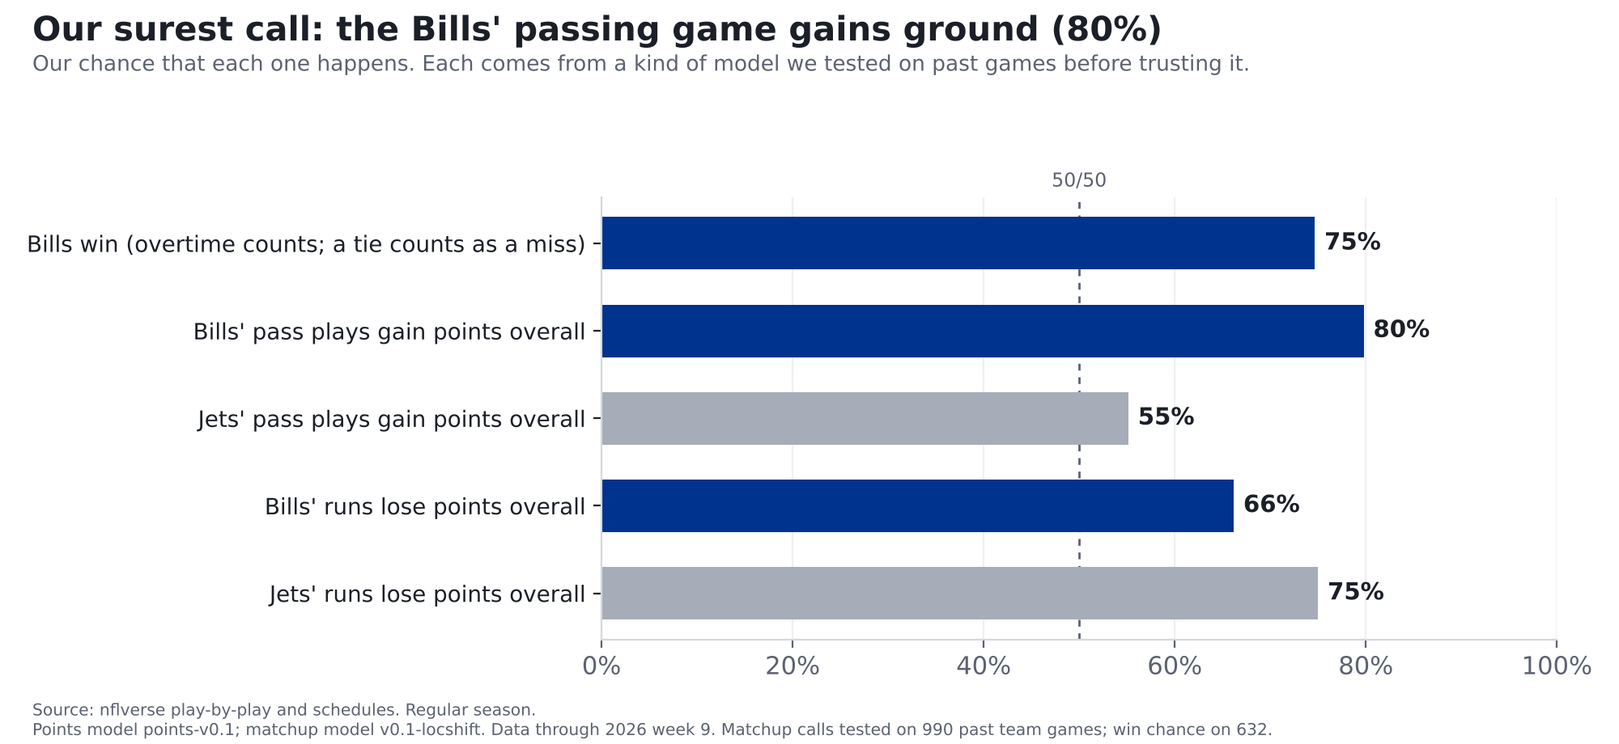
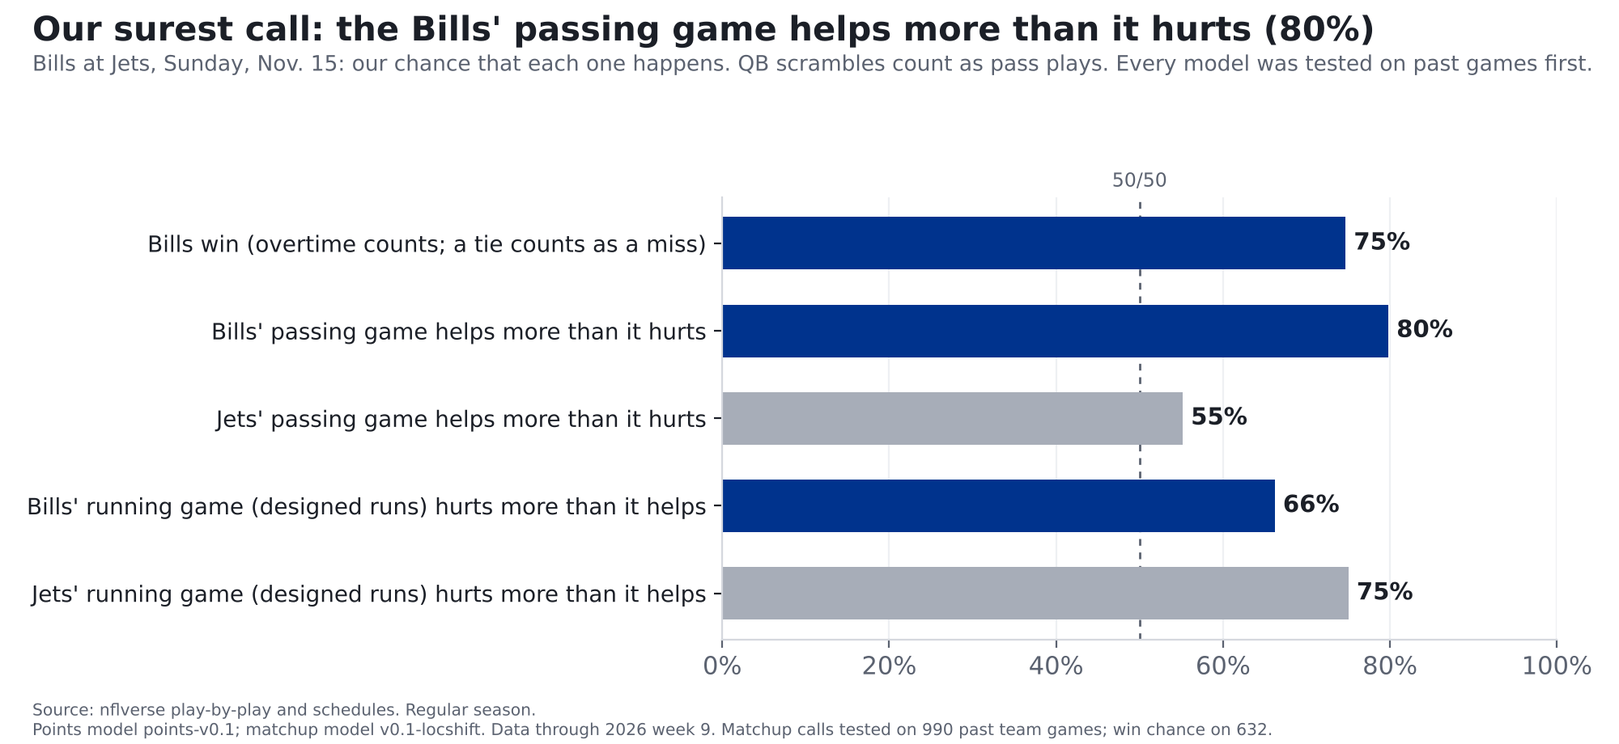
Bills at Jets: plain-English call labels + clarification (#34)
* Plain-English call labels: reword Bills-Jets calls (dated clarification), Editor checks every line stands alone, house rule for call wording

Claude-Session: https://claude.ai/code/session_01EpbAX7fMNT8LnsxAN6UoCp

* Plain labels round 2: hero, card chart, clarification quotes the Ledger, designed runs

Claude-Session: https://claude.ai/code/session_01EpbAX7fMNT8LnsxAN6UoCp

* Plain labels round 3: designed runs on every run label, scrambles note, hero title scoped to pass calls

Claude-Session: https://claude.ai/code/session_01EpbAX7fMNT8LnsxAN6UoCp

* Review records: plain call labels pass Quant, Editor and final check

Claude-Session: https://claude.ai/code/session_01EpbAX7fMNT8LnsxAN6UoCp

---------

diff --git a/src/reports/wk10_prediction.py b/src/reports/wk10_prediction.py
@@ -151,10 +151,10 @@ def main():
     wt, mae = P["wt"], P["mae"]
     calls = [  # (plain-English call, our chance, which model, test key)
         ("Bills win (overtime counts; a tie counts as a miss)", P["p_buf"], "Points model, win chance", "win"),
-        ("Bills' pass plays gain points overall", C["buf_db"]["p"], "Matchup model", "dropback_epa"),
-        ("Jets' pass plays gain points overall", C["opp_db"]["p"], "Matchup model", "dropback_epa"),
-        ("Bills' runs lose points overall", 1 - C["buf_ru"]["p"], "Matchup model", "rush_epa"),
-        ("Jets' runs lose points overall", 1 - C["opp_ru"]["p"], "Matchup model", "rush_epa"),
+        ("Bills' passing game helps more than it hurts", C["buf_db"]["p"], "Matchup model", "dropback_epa"),
+        ("Jets' passing game helps more than it hurts", C["opp_db"]["p"], "Matchup model", "dropback_epa"),
+        ("Bills' running game (designed runs) hurts more than it helps", 1 - C["buf_ru"]["p"], "Matchup model", "rush_epa"),
+        ("Jets' running game (designed runs) hurts more than it helps", 1 - C["opp_ru"]["p"], "Matchup model", "rush_epa"),
     ]
     db, db_cal = T["dropback_epa"]; ru, ru_cal = T["rush_epa"]
     db_hi = db_cal.iloc[-1]                     # the model's most confident pass calls (70%+)
@@ -198,8 +198,8 @@ def main():
     ax.set_yticks(ys, [c[0] for c in calls], fontsize=10)
     ax.set_xlim(0, 1); ax.xaxis.set_major_formatter(matplotlib.ticker.PercentFormatter(1, decimals=0))
     ax.grid(axis="x", color="#EEF0F3"); ax.set_axisbelow(True)
-    finish(fig, f"Our surest call: the Bills' passing game gains ground ({C['buf_db']['p']:.0%})",
-           "Our chance that each one happens. Each comes from a kind of model we tested on past games before trusting it.",
+    finish(fig, f"Our surest call: the Bills' passing game helps more than it hurts ({C['buf_db']['p']:.0%})",
+           "Bills at Jets, Sunday, Nov. 15: our chance that each one happens. QB scrambles count as pass plays. Every model was tested on past games first.",
            f"Points model {pm.VERSION}; matchup model {V01}. Data through 2026 week {THRU}. Matchup calls tested on {db['n']} past team games; win chance on {wt['n']}.")
     fig.savefig(OUT / "wk10-calls.png"); plt.close(fig)
 
@@ -231,14 +231,18 @@ def main():
 
     table = "\n".join(f"| {lab} | **{pr:.0%}** | {m} |" for lab, pr, m, _ in calls)
     ladder_rows = "\n".join(f"| {t} or more | **{lad[t][0]:.0%}** | {lad[t][1]:.0%} |" for t in LADDER)
-    md = f"""# Bills at Jets: our prediction. Buffalo's passing game gets one of the NFL's leakiest pass defenses
+    md = f"""# Bills at Jets: our prediction. Buffalo's passing game faces one of the NFL's leakiest pass defenses
 
 **Finding: We project the Bills for {pb:.1f} points and the Jets for {pj:.1f}, which gives Buffalo a {P['p_buf']:.0%} chance to win. The biggest mismatch on
 the field: the Bills' passing game, {ordn_(R['buf_off_rk'])}-best in the NFL, against a Jets pass defense that's {ordn_(R['opp_def_most'])}-worst. Our matchup model gives an
-{C['buf_db']['p']:.0%} chance the Bills' pass plays gain ground Sunday, our most confident pass call yet, and the model's confident calls have held up.**
+{C['buf_db']['p']:.0%} chance the Bills' passing game helps more than it hurts on Sunday, our most confident pass call yet, and the model's confident calls have held up.**
 
 *Bills at Jets, Sunday, Nov. 15, 1 p.m. ET, MetLife Stadium. Numbers are 2026 through week {THRU}. [Last week's prediction](bills-vikings-prediction.html)
 and [how it went](bills-vikings-postgame.html): {w9_hits} of 7 calls hit.*
+
+*Clarification, Nov. 14: the old wording of our four pass and run calls read like scoreboard points, which isn't what they meant. We reworded those
+calls and the lead in plain English (for example, "the Bills' passing game helps more than it hurts"). No numbers changed. The Ledger entries, logged
+Nov. 13 before kickoff, keep the wording they were logged with (for example, "Bills' pass plays add points overall"), because Ledger entries are never edited.*
 
 ![Chance each team reaches each scoreline](wk10-ladder.png)
 
@@ -255,11 +259,11 @@ scrambles count). The Jets' pass defense has given up {R['opp_def']:.2f} a play,
 Our matchup model counts every game equally instead of every play, so the numbers shift a little. In a typical game the Bills' passing gains about {C['buf_db']['off_mean']:.2f} a play, the Jets' pass defense
 allows about {C['buf_db']['def_mean']:.2f}, and an average game is {C['buf_db']['league']:.2f}. Start from average, add half of how far above average the Bills are and half
 of how far the Jets' defense is, and you get about **{C['buf_db']['expected']:.2f} points a play** for Buffalo on Sunday. Games swing a lot, so that's not a
-promise; the model says there's an **{C['buf_db']['p']:.0%}** chance that, all told, the Bills' passing plays leave them better off than they started.
+promise; the model says there's an **{C['buf_db']['p']:.0%}** chance that, all told, the Bills' passing game helps more than it hurts.
 
 **Is {C['buf_db']['p']:.0%} too bold?** It's the most confident pass call we've made, so we checked the model's record at that level. We tested it on {db['n']}
 past team games from 2023-2025 that it had never seen. In the {int(db_hi.n)} where it gave a passing game 70% or more, it said {db_hi.said:.0%} on average, and the
-passing game came out ahead {db_hi.happened:.0%} of the time.
+passing game helped more than it hurt {db_hi.happened:.0%} of the time.
 
 The rest of the game is closer to even. The Jets score {P['raw']['opp_off']:.2f} points per drive ({ordn_(P['rk']['opp_off_rank'])} of {P['rk']['n']}); the Bills' defense allows
 {P['raw']['buf_def']:.2f} ({ordn_(P['rk']['buf_def_rank'])}).
@@ -290,7 +294,7 @@ The Jets go through the same steps from the other direction. After mixing in las
 defense at {P['def_b']:.2f}, plus the home bump.
 That's **{pj:.1f}**.
 
-## How a 30-point projection becomes {P['p_buf']:.0%}
+## How a 30-point projection becomes a {P['p_buf']:.0%} win chance
 
 Nobody scores exactly what we project. We looked at {len(res):,} past team scores from 2019-2023 and asked how far off we were. Half the time, a team landed
 within about {miss50:.0f} points of our number; eight times in ten, within about {miss80:.0f}. (On games the model had never seen, our average miss was {mae['model']:.1f} points.)
@@ -307,8 +311,9 @@ to Sunday's projections, and checked who came out ahead: Buffalo, {P['p_buf']:.0
 
 ![The calls](wk10-calls.png)
 
-A team's runs "lose points" if, all told, its running plays left it worse off
-than before. That's normal: in {ru['n']} past team games, runs lost points overall {1 - ru['rate']:.0%} of the time.
+What these mean: take the points every pass play was worth in the game (sacks and quarterback scrambles count as pass plays), or every designed run,
+and add them up, good plays and bad. If the total is above zero, that part of the offense helped more than it hurt. Running games usually hurt more than
+they help: in {1 - ru['rate']:.0%} of {ru['n']} past team games, a team's designed runs added up to less than zero.
 
 **Why no 20-point calls this week.** Last week we said our chances of a team reaching 20 points ran a few points low, and that we'd fix that before using
 those 20-point chances again. We haven't fixed it yet, so they're still in the ladder above but aren't logged. The whole middle of the ladder has the same issue: on games the model never saw, when it gave a
@@ -357,9 +362,9 @@ It beat the guess on pass calls and edged it on run calls.
         "note": (f"Bills win {P['p_buf']:.0%} of the time. The key matchup: Buffalo's passing game ({ordn_(R['buf_off_rk'])} in the NFL) against a Jets pass "
                  f"defense that's {ordn_(R['opp_def_most'])}-worst."),
         "explainer": {
-            "kicker": "How we checked it", "title": "Its confident calls have held up.",
-            "text": (f"When our matchup model gave a passing game 70% or more on {int(db_hi.n)} past games it hadn't seen, "
-                     "it said this, and this is how often it happened:"),
+            "kicker": "How we checked it", "title": "Our most confident pass calls have held up.",
+            "text": (f"In {int(db_hi.n)} past games the model hadn't seen, it gave a team's passing game a 70% or better chance to help more "
+                     "than it hurt. Here's the chance it gave, on average, and how often it happened:"),
             "fmt": "pct", "bars": [["What it said", round(float(db_hi.said), 3)], ["What happened", round(float(db_hi.happened), 3)]]},
     }, indent=1))
     print(md)

diff --git a/reports/reviews/2026-wk10-bills-at-jets-final.md b/reports/reviews/2026-wk10-bills-at-jets-final.md
@@ -1,45 +1,35 @@
 # Final check (stage 4): reports/2026-wk10-bills-at-jets.md
+sha256 a909c93f1252bba10c352644d569b545c9daf328f872da53d138133304cb70a4 (matches a909c93f1252).
 
-Text checked: sha256 a9078ec040c014ccbf25bc868fafb9137a3414b8b8d29ca692681c82f2bdcbf5 (matches current file).
-I did not run the generator or the logger. My own scratch code is /tmp/fc10/check.py. It opens data/buffalo.db read-only and uses only points_model, model_v01 and model_v01_backtest.
+Verdict: PASS (publish).
 
-**Verdict: PASS. Publish as is.** The edits since the round-2 Quant pass are: the opening rewording, "Ty Johnson", the game-by-game sentence, the ladder note, the cut duplicate disclaimer, the Ledger line and the removed tie footnote. None of them broke a number or a claim.
+## 1. Every line stands alone
+- Calls table rows, calls chart labels and title ("Our surest call: the Bills' passing game helps more than it hurts (80%)"),
+  hero note and explainer title, ladder and win-test chart titles all read as plain sentences. Run calls carry "(designed runs)";
+  calls chart subtitle and the "What these mean" paragraph say scrambles count as pass plays. No "gain/lose points" wording
+  outside the clarification note's quote of the Ledger.
+- Jargon (EPA, dropback, Brier, calibration, residual) appears only in "For the stat-heads".
+- Non-blocking: ladder chart title "72% to 41% to reach 24" is a bit terse; hero explainer says "134 past games" where they are team games.
 
-## Re-derived numbers
-- **Projections:** coef 7.068 + 0.6785 x raw + 1.453 x home. Bills raw 33.59 (3.074 per drive x 10.92 drives), which gives 29.86 or **29.9**. Jets get **22.08 or 22.1**. Blends: Bills offense 2.729, Jets defense 2.400, Jets offense 1.805, Bills defense 2.078, league 2.055.
-- **Win chance:** 1,247 pairs, Buffalo 0.7466, so **75%**. The ladder reproduces in all 16 cells: 99/90, 95/80, 92/69, 85/58, 72/41, 61/30, 48/20, 29/9. 18-42 is the 10th-90th range. 2,494 training misses: median miss 6.3, 80th percentile 12.1. Test misses averaged 7.47 over 1,264 games.
-- **Raw per drive, through week 9:** Bills offense 2.889 (1st), Jets defense 2.368 (6th-most), Jets offense 1.916 (19th), Bills defense 2.101 (17th-most, so 16th-best). The story's "16th" matches the week 9 postgame's "16 of 32".
-- **Pass, two-point tries excluded:** Bills 0.2633 over 273 (4th). Jets defense 0.1608 over 312 (7th-most of 32). League 0.0466. With two-point tries included, the Bills would be 0.253 over 277, so the exclusion is applied.
-- **Game-by-game:** offense 0.2705, Jets defense 0.1950, league 0.0486. 0.0486 + 0.5 x (0.2219 + 0.1464) = 0.2327, so **0.23**. P = 0.798, so **80%**.
-- **Example plays (2026_09_BUF_MIN):** play 2588, Q3 3rd-and-8, passer 00-0034857 (Josh Allen) to 00-0035537 (Ty Johnson in raw_players), 36 yards, EPA +3.775. Play 132, Q1 3rd-and-14, Allen sacked for -7, EPA -1.755.
-- **The 80% check:** dropback backtest n=990. The 0.7-1.0 bucket has n=134, said 0.754, happened 0.776, so 75 and 78. Brier 0.2296 vs 0.2452 (pass), 0.2263 vs 0.2312 (run). Runs lost points in 63.9% of games, so 64%. The stat-heads calibration buckets all reproduce.
-- **Other calls:** Jets pass 0.5515, so 55%. Bills runs lose 1 - 0.338 = 66%. Jets runs lose 1 - 0.25 = 75%. Expected values 0.028, -0.067 and -0.113 match the Ledger notes.
-- **Win test:** n=632. The better-chance team was right 63.3% with ties as misses (2 ties). Home team won 51.9%. The 70%+ bucket: n=102, said 75.0%, won 74.0% with ties counted as half. Brier 0.2248 vs 0.2492 / 0.2490.
-- **Ladder caveat:** pooled 0.4-0.6, n=1,744, said 0.499, happened 0.548, so "50% / 55%".
-- **"Most confident pass call":** earlier pass calls were 0.57 (P0005) and 0.65 (P0006). P0008 at 0.81 is a run call, so the qualifier is right.
-- **5 of 7:** P0002-P0008 graded 1,1,0,1,0,1,1.
-- **20-point note:** the week 9 preview said the 20-point chances were "probably a few points low ... will fix this before using these lines again". This week has no 20+ calls on the Ledger and says the fix isn't done. Consistent.
+## 2. Betting language
+grep for picks/odds/lock/lean/favorite/value/edge/fade/lines/spreads/bet/units/cover: one hit only, "No betting lines are used
+anywhere in these models" (a disclaimer in stat-heads). Clean.
 
-## The Ledger
-- P0012-P0016 hold 0.75 / 0.80 / 0.55 / 0.66 / 0.75, which match the table, the chart and the model output.
-- Version is points-win-v0.1 for P0012 and v0.1-locshift for the other four. Game is 2026_10_BUF_NYJ, resolving 2026-11-15T18:00Z (1 p.m. EST).
-- created_at_utc is 2026-11-14T00:54:53Z, which is 7:54 p.m. EST on Nov 13, about 41 hours before kickoff. The story's Ledger line is correct, including "All 5 calls".
-- **Wording:** the story paraphrases the Ledger claim text, the same way week 9 did. For P0012 the story says "overtime counts; a tie counts as a miss" and the Ledger says "any result; a tie counts as a miss". These grade identically. Not a blocker, and the Ledger can't be edited anyway.
+## 3. Numbers vs Ledger and data
+- Ledger P0012-P0016 probabilities 0.75 / 0.80 / 0.55 / 0.66 / 0.75 match table, chart and text.
+- Generator functions: win 0.7466; Bills dropback P(over 0)=0.798 (exp +0.233); Jets dropback 0.551 (exp +0.028);
+  Bills rush P(over)=0.338 -> under 0.66 (exp -0.067); Jets rush P(over)=0.25 -> under 0.75 (exp -0.113). Projections 29.86 / 22.08.
+- Independent SQL on raw_pbp (2026 wk1-9 REG, qb_dropback, no 2pt): Bills offense 273 plays, +0.263/play; Jets defense 312 plays,
+  +0.161 (rank 26 of 32 = 7th-most). Matches story. Points per drive 2.89 (1st), Jets D 2.37 (6th-most), Jets O 1.92 (19th), Bills D 2.10 (16th) match.
+- Example plays: Ty Johnson 36-yd on 3rd-and-8 = 3.77 ("about 3.8"); 7-yd sack on 3rd-and-14 = -1.76 ("about 1.8"). Match.
+- Ladder chart values equal table; ladder footer 1,264 team-games = 2 x 632 games. Win-test chart (102 games, 75%/74%) matches text.
+- Non-blocking, pre-existing: the logged win call counts a tie as a miss while the 75% treats a tie as half; tie probability is tiny, disclosed.
 
-## Ties
-The 63% counts ties as misses. Counting them as half gives 63.4%, and the home-team baseline moves from 51.9% to 52.1%. Both still round to 63% and 52%, so the sentence is true under either rule. The 74% sentence and the win chart footer both state the half-win rule. Dropping the footnote loses nothing a reader needs.
+## 4. Clarification note
+Says no numbers changed (consistent: all probabilities equal Ledger rows logged before the reword). Quoted logged wording
+"Bills' pass plays add points overall" is exact text of P0013's claim_text (parenthetical omitted, introduced as "for example").
+"Four pass and run calls" is correct (P0013-P0016). Dated Nov. 14.
 
-## Hero, dek, charts
-- **Hero:** 30 / 22, 75%, 4th, 7th-worst, 134 games, 0.754 / 0.776. All correct.
-- **Dek:** 29.9 / 22.1 / 75% and "one of the NFL's leakiest pass defenses" (7th-most). Correct.
-- **Ladder PNG:** all 16 labels match and the footer reads 1,264 test games.
-- **Calls PNG:** labels and values match and the footer is correct.
-- **Win-test PNG:** buckets 315 + 215 + 102 = 632, and 75/74 matches the text.
-
-## Brand
-- Scanning the body above "For the stat-heads" found no betting words: odds, spread, line, pick, lock, favorite, bet, wager.
-- No jargon in the body (no EPA, dropback or correlation).
-- Every number traces to the model code I re-ran.
-
-## Optional (non-blocking)
-- Lines 14-15 have a cosmetic markdown line wrap. It renders as one paragraph.
+## 5. Kickoff / timing
+raw_schedules: 2026_10_BUF_NYJ, Sunday 2026-11-15 13:00 ET, NYJ home. Ledger created_at_utc 2026-11-14T00:54:53Z = Nov 13 7:54 p.m. ET,
+before kickoff; story's "Nov. 13 at 7:54 p.m. ET" matches. resolves_at 18:00Z = 1 p.m. ET.

diff --git a/reports/reviews/2026-wk10-bills-at-jets-quant.md b/reports/reviews/2026-wk10-bills-at-jets-quant.md
@@ -1,36 +1,11 @@
-# Quant re-check (stage 2, round 2): reports/2026-wk10-bills-at-jets.md
+# Quant re-review 3: 2026-wk10-bills-at-jets.md (sha256 a909c93f1252...)
 
-Text checked: sha256 ff02a816ce8749d0bd23a266574b4cde41b0d56714a009b3e2f22bfd5d05d668. I didn't run the generator or the logger. The Ledger still has 11 predictions; nothing for week 10 is logged.
+Verdict: PASS. Publish.
 
-**Verdict: PASS.** Every number in the new text reproduces from my own scratch code. There's one small wording fix to make before the final check.
-
-## My four fixes from round 1
-1. **Two-point tries:** `pass_ranks` now has `COALESCE(two_point_attempt,0)=0`. The body says 0.26 over 273 (4th) and 0.16 over 312 (7th-most of 32), league 0.05. Stat-heads says +0.263 and +0.047. These match my numbers from raw_pbp (+0.2633/273, +0.1608/312, +0.0466). Fixed.
-2. **The 0.23 paragraph:** it now uses 0.27, 0.19 and 0.05. 0.049 + 0.5 x (0.221 + 0.146) = 0.233, so 0.23. These are the model's game-averaged values, which I recomputed from clean_team_week (+0.2705, +0.1950, +0.0486). Fixed.
-3. **"lines":** the word is gone from the body. Stat-heads now says "8 scorelines". The only "lines" left is "No betting lines are used", which is a disclaimer and fine. Fixed.
-4. **Calls chart:** I looked at the new wk10-calls.png. The footer is "Matchup calls tested on 990 past team games; win chance on 632". Both are correct, and it no longer says the calls are logged. Fixed.
-
-## The Editor's changes, checked
-- **The two example plays:** I checked them in raw_pbp, game 2026_09_BUF_MIN, Bills on offense.
-  - The completion is play 2588, Q3 3rd-and-8, 36 yards. Passer gsis 00-0034857 is Josh Allen; receiver 00-0035537 is Ty Johnson ("T. Johnson" is fine). EPA +3.775, so about 3.8.
-  - The sack is play 132, Q1 3rd-and-14, -7 yards, Allen sacked. EPA -1.755, so about 1.8.
-  - Neither play is a penalty or a two-point try. The asserts in example_plays() pin each to a single row.
-- **The win-test sentence:** 70%+ bucket said 75.0%, won 74.0%, 102 games, ties counted as half. The win chart shows the same. "As it gives Buffalo Sunday" is right: Buffalo is at 74.7%, which is in the 70%+ bucket.
-- **"pulls extreme projections like this 34":** the raw projection is 33.6, which rounds to 34. That matches "about 11 drives (10.92) ... about 34".
-- **The Jets' blend:** their offense rates 1.805, so 1.81, and the Bills' defense 2.078, so 2.08. Then the home bump of 1.45 gives 22.08, so 22.1. Correct.
-- **"Both sides tilt toward Buffalo":** Bills offense 2.73 is above the league's 2.05, and the Jets' defense 2.40 allows more than average. Points per drive 3.074, so 3.07. Correct.
-- **The headline**, "Buffalo's passing game gets one of the NFL's leakiest pass defenses": the Jets are 7th-most allowed per pass play. This also fixes the "best offense" vs. "4th-best passing" tension.
-- **Unchanged and still right:** the ladder (all 16 cells), 29.9 / 22.1 / 75%, the 80/55/66/75 calls, 134 games said 75 / happened 78, the 990-game backtest, 64% of runs losing points, the 632-game test (63% / 52%), the 1,744-case caveat (50 → 55), 2,494 misses, 1,247 pairs, the 18-42 range, "within 6 / 12", the average miss of 7.5, the ranks (19th, 16th, 1st, 6th-most), and "5 of 7".
-- **Logger:** log_wk10.py is unchanged and still pulls `points_block()` and `matchup_calls()`, which this round didn't touch. It would log 0.75 / 0.80 / 0.55 / 0.66 / 0.75, matching the story.
-- **Hero JSON and dek:** unchanged and consistent (30, 22, 75%, 4th, 7th-worst, 134, 0.754/0.776).
-- **Brand:** no betting language. The body uses plain decimals with no "EPA", and the jargon stays in the stat-heads section.
-
-## Fix before the final check (wording only)
-- **"they're still shown in the ladder, flagged, but not logged until fixed. The ladder has the same issue: ..."**
-  - Nothing in the ladder table or chart flags the 20+ row; the only flag is this paragraph.
-  - "The ladder has the same issue" right after "still shown in the ladder" also reads as a repeat.
-  - Suggested: "We haven't fixed it yet, so we're not logging them; they're still in the ladder above, with this caveat: on games the model never saw, when it gave a team a 40-60% chance ..."
-  - Alternatively, add a marker to the 20+ row.
-
-## Note for the final check
-After the logger runs, `ledger_status()` swaps in the "Logged on ... before kickoff" sentence. That changes the text's sha256, so the final check has to be on the post-logging text. Also confirm that the logged rows are 0.75 / 0.80 / 0.55 / 0.66 / 0.75 and that created_at_utc is before 2026-11-15 18:00Z.
+## Checked
+- Diff from HEAD~1 (.md, hero.json, wk10_prediction.py, PNG): wording only. No number changed. Table and chart values are still 75/80/55/66/75%. Hero bars are still 0.754 and 0.776. Footer still says 990 and 632.
+- The run calls now read "Bills'/Jets' running game (designed runs) hurts more than it helps" in the table and the chart. That matches the model (designed runs only, src/clean/build.py:35) and Ledger P0015/P0016 ("designed runs lose points overall (rush EPA below zero)", 0.66 and 0.75).
+- The chart subtitle says "QB scrambles count as pass plays." That's correct: all 489 scrambles on real plays in 2026 are counted as dropbacks. The explainer paragraph right under the table says the same.
+- The hero title is now "Our most confident pass calls have held up." It matches its evidence: pass calls at 70%+, 134 games, said 75.4%, happened 77.6%.
+- wk10-calls.png: labels and subtitle are fully visible and not clipped. The 50/50 line is still there. Footer has the source and sample sizes. No jargon and no betting language.
+- Earlier rounds' checks still hold: clarification note, explainer, 64% of 990, 78% of 134.

diff --git a/reports/2026-wk10-bills-at-jets.md b/reports/2026-wk10-bills-at-jets.md
@@ -1,11 +1,15 @@
-# Bills at Jets: our prediction. Buffalo's passing game gets one of the NFL's leakiest pass defenses
+# Bills at Jets: our prediction. Buffalo's passing game faces one of the NFL's leakiest pass defenses
 
 **Finding: We project the Bills for 29.9 points and the Jets for 22.1, which gives Buffalo a 75% chance to win. The biggest mismatch on
 the field: the Bills' passing game, 4th-best in the NFL, against a Jets pass defense that's 7th-worst. Our matchup model gives an
-80% chance the Bills' pass plays gain ground Sunday, our most confident pass call yet, and the model's confident calls have held up.**
+80% chance the Bills' passing game helps more than it hurts on Sunday, our most confident pass call yet, and the model's confident calls have held up.**
 
 *Bills at Jets, Sunday, Nov. 15, 1 p.m. ET, MetLife Stadium. Numbers are 2026 through week 9. [Last week's prediction](bills-vikings-prediction.html)
 and [how it went](bills-vikings-postgame.html): 5 of 7 calls hit.*
+
+*Clarification, Nov. 14: the old wording of our four pass and run calls read like scoreboard points, which isn't what they meant. We reworded those
+calls and the lead in plain English (for example, "the Bills' passing game helps more than it hurts"). No numbers changed. The Ledger entries, logged
+Nov. 13 before kickoff, keep the wording they were logged with (for example, "Bills' pass plays add points overall"), because Ledger entries are never edited.*
 
 ![Chance each team reaches each scoreline](wk10-ladder.png)
 
@@ -22,11 +26,11 @@ scrambles count). The Jets' pass defense has given up 0.16 a play, 7th-most of 3
 Our matchup model counts every game equally instead of every play, so the numbers shift a little. In a typical game the Bills' passing gains about 0.27 a play, the Jets' pass defense
 allows about 0.19, and an average game is 0.05. Start from average, add half of how far above average the Bills are and half
 of how far the Jets' defense is, and you get about **0.23 points a play** for Buffalo on Sunday. Games swing a lot, so that's not a
-promise; the model says there's an **80%** chance that, all told, the Bills' passing plays leave them better off than they started.
+promise; the model says there's an **80%** chance that, all told, the Bills' passing game helps more than it hurts.
 
 **Is 80% too bold?** It's the most confident pass call we've made, so we checked the model's record at that level. We tested it on 990
 past team games from 2023-2025 that it had never seen. In the 134 where it gave a passing game 70% or more, it said 75% on average, and the
-passing game came out ahead 78% of the time.
+passing game helped more than it hurt 78% of the time.
 
 The rest of the game is closer to even. The Jets score 1.92 points per drive (19th of 32); the Bills' defense allows
 2.10 (16th).
@@ -64,7 +68,7 @@ The Jets go through the same steps from the other direction. After mixing in las
 defense at 2.08, plus the home bump.
 That's **22.1**.
 
-## How a 30-point projection becomes 75%
+## How a 30-point projection becomes a 75% win chance
 
 Nobody scores exactly what we project. We looked at 2,494 past team scores from 2019-2023 and asked how far off we were. Half the time, a team landed
 within about 6 points of our number; eight times in ten, within about 12. (On games the model had never seen, our average miss was 7.5 points.)
@@ -78,15 +82,16 @@ to Sunday's projections, and checked who came out ahead: Buffalo, 75% of the tim
 | Call | Our chance | Where it comes from |
 |---|---|---|
 | Bills win (overtime counts; a tie counts as a miss) | **75%** | Points model, win chance |
-| Bills' pass plays gain points overall | **80%** | Matchup model |
-| Jets' pass plays gain points overall | **55%** | Matchup model |
-| Bills' runs lose points overall | **66%** | Matchup model |
-| Jets' runs lose points overall | **75%** | Matchup model |
+| Bills' passing game helps more than it hurts | **80%** | Matchup model |
+| Jets' passing game helps more than it hurts | **55%** | Matchup model |
+| Bills' running game (designed runs) hurts more than it helps | **66%** | Matchup model |
+| Jets' running game (designed runs) hurts more than it helps | **75%** | Matchup model |
 
 ![The calls](wk10-calls.png)
 
-A team's runs "lose points" if, all told, its running plays left it worse off
-than before. That's normal: in 990 past team games, runs lost points overall 64% of the time.
+What these mean: take the points every pass play was worth in the game (sacks and quarterback scrambles count as pass plays), or every designed run,
+and add them up, good plays and bad. If the total is above zero, that part of the offense helped more than it hurt. Running games usually hurt more than
+they help: in 64% of 990 past team games, a team's designed runs added up to less than zero.
 
 **Why no 20-point calls this week.** Last week we said our chances of a team reaching 20 points ran a few points low, and that we'd fix that before using
 those 20-point chances again. We haven't fixed it yet, so they're still in the ladder above but aren't logged. The whole middle of the ladder has the same issue: on games the model never saw, when it gave a

diff --git a/reports/reviews/2026-wk10-bills-at-jets-editor.md b/reports/reviews/2026-wk10-bills-at-jets-editor.md
@@ -1,19 +1,19 @@
-# Editor re-review, round 3: Bills at Jets, week 10 (text sha256 a9078ec040c0...)
+# Editor re-review, round 3: Bills at Jets, week 10 (text sha256 a909c93f1252)
 
-## One-sentence version
-"We give the Bills a 75% chance to win at MetLife, about 30 to 22, and the place they win it is through the air against the Jets' 7th-worst pass defense." The lead still says this.
+**One-sentence version:** The Bills should beat the Jets about three times in four, and their passing game against one of the NFL's leakiest pass defenses is our surest call of the week.
 
-## Verdict: ready (PASS)
+**Verdict: ready (PASS).**
 
-I checked the text and the diff against HEAD~1. All of the round-2 fixes are in:
-- **Ladder note:** reads "still in the ladder above but aren't logged. The whole middle of the ladder has the same issue". The false "flagged" is gone.
-- **Duplicate scoreboard disclaimer:** cut. The line now opens "A team's runs 'lose points' if ...".
-- **Opening:** "We grade every play in points, though not scoreboard points: ...". The real Allen example to Ty Johnson follows it.
-- **The 0.26 vs 0.27 shift:** now explained ("counts every game equally instead of every play").
-- **Tie footnote:** removed.
-- **Ledger line:** "Logged ... on Nov. 13 at 7:54 p.m. ET, before kickoff. All 5 calls ...". This matches ledger/ P0012-P0016, created 2026-11-14T00:54:53Z (7:54 p.m. EST, Nov. 13). There are five calls, all before the 2026-11-15 18:00Z kickoff, and the probabilities match the table (75/80/55/66/75).
+## Checked
+- **Calls table:** the run rows now read "Bills'/Jets' running game (designed runs) hurts more than it helps". Each reads on its own as a plain sentence. Pass.
+- **Chart wk10-calls.png:** the longer run labels still read well. Nothing is clipped, the bars and percentages stay legible, and the 50/50 line is clear. The subtitle names the game and says "QB scrambles count as pass plays". Seen alone, the chart now explains both kinds of call. Pass.
+- **Hero title:** "Our most confident pass calls have held up." reads on its own and matches the evidence shown, which covers pass calls only. That's better than my wording. Pass.
+- **The rest:** unchanged from round 2 and still passing. That covers the dek, the hero numbers and note, the hero explainer text, the clarification note, the explainer paragraph, the matchup lines and the header.
 
-## Notes for the Quant / final check (not editor blockers)
-- **Ties.** With the footnote gone, the 63% (a tie counts as a miss) and the chart footer ("Ties count as half a win") are no longer contrasted in the text. Line 100 still states the half-win rule for the 74%. This is fine for a fan; the Quant can confirm the 63% still reads correctly on its own.
-- **P0012 wording.** The Ledger claim reads "Bills beat the Jets (any result; a tie counts as a miss)". The story's table says "Bills win (overtime counts; a tie counts as a miss)". The meaning is the same, but the self-check asks for exact wording, so the final check should decide.
-- **Line wrap.** Line 14-15 wraps awkwardly in the markdown ("into\npoints. Last week at Minnesota,\nJosh"). It renders as one paragraph, so it's cosmetic only.
+## Optional, not blocking
+- The table rows say "(designed runs)" but don't mention scrambles themselves. The chart subtitle and the paragraph right below the table both do. If Charlie wants the table to stand alone even more strictly, add this line under the table: `QB scrambles count as pass plays.`
+
+## Ledger P0012-P0016 (unchanged, for Charlie)
+- The logged wording still doesn't stand alone for a fan: "pass plays add points overall", "designed runs lose points overall", and "any result" in P0012.
+- The rows can't be edited, and the story's clarification quotes them honestly.
+- Option: show a plain-English line next to the logged wording on the Ledger page. Don't add correction rows.

diff --git a/CLAUDE.md b/CLAUDE.md
@@ -162,6 +162,11 @@ REST API (`gh api`, not `gh release download`, which needs GraphQL). Seasons 202
   the source data, the reasoning (with real computed examples, e.g. "shots from within 10 feet go in 13.8% of
   the time"), the math in one plain paragraph, and how we checked it. Include the chart that shows it.
 - Tie the explanation back to the headline number ("their chances were worth 237 goals; they scored 256").
+- **Every call and label reads on its own.** Ledger calls, table rows, chart labels and titles travel without the story
+  (screenshots, the Ledger page), so each must make sense alone. Pass and run calls are written as "the Bills' passing game
+  helps more than it hurts" / "the Jets' running game hurts more than it helps", never "pass plays gain points overall" or
+  "runs lose points". Write the Ledger `claim_text` the same way, with the stat definition in parentheses at the end. The run
+  calls count designed runs only; QB scrambles count as pass plays, so say so next to any run call.
 - **Published stories never change silently.** Every generator pins its data with an `AS_OF` date (games through that
   date). Re-running it reproduces the published numbers. Updated numbers mean a new, clearly dated story or note.
 

diff --git a/.claude/agents/editor.md b/.claude/agents/editor.md
@@ -21,6 +21,11 @@ Read only the story body (ignore "For the stat-heads"), then:
    follows. Check that the explanation is right-sized: enough to trust it, not a methods paper.
 5. **Flow and length.** Headers that tell the story, short paragraphs, no repeated points.
 6. **Charts.** Can a fan read each chart in five seconds? Is the title the takeaway?
+7. **Every line stands alone.** Read every Ledger call, table row, chart label, chart title, hero line and dek by itself, as a fan
+   who sees only that line (a chart screenshot, the calls table, the Ledger page). If it doesn't make sense without the
+   paragraph around it, flag it. "Bills' pass plays gain points overall" fails: a fan reads it as scoreboard points. Write
+   it as a plain sentence: "Bills' passing game helps more than it hurts." Check this even when the wording was used in
+   an earlier story; earlier stories can be wrong too.
 
 Don't change any number or factual claim. If a rewrite needs a new number, say so and the writer computes it.
 Don't edit files. Report: your one-sentence version of the story, a verdict (ready / needs edits / needs a rewrite),
